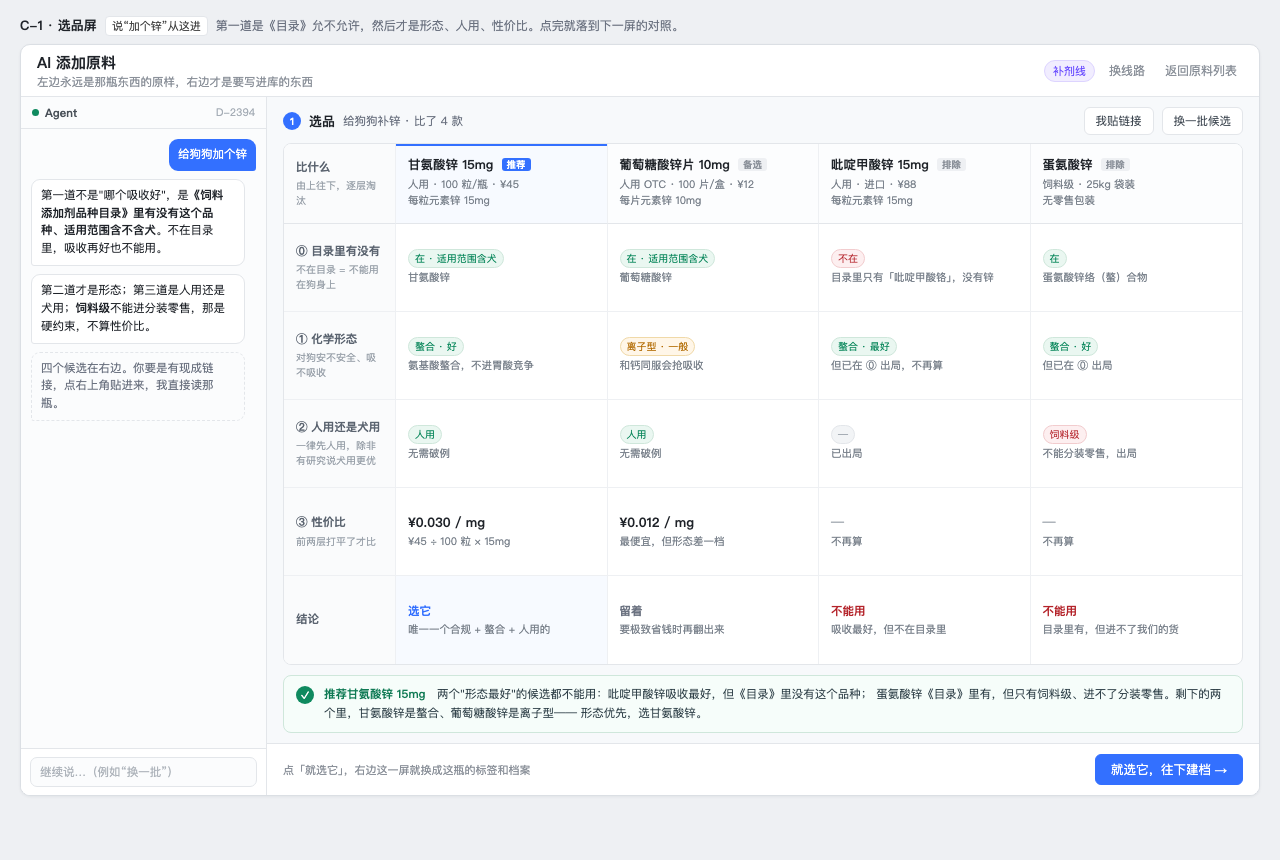
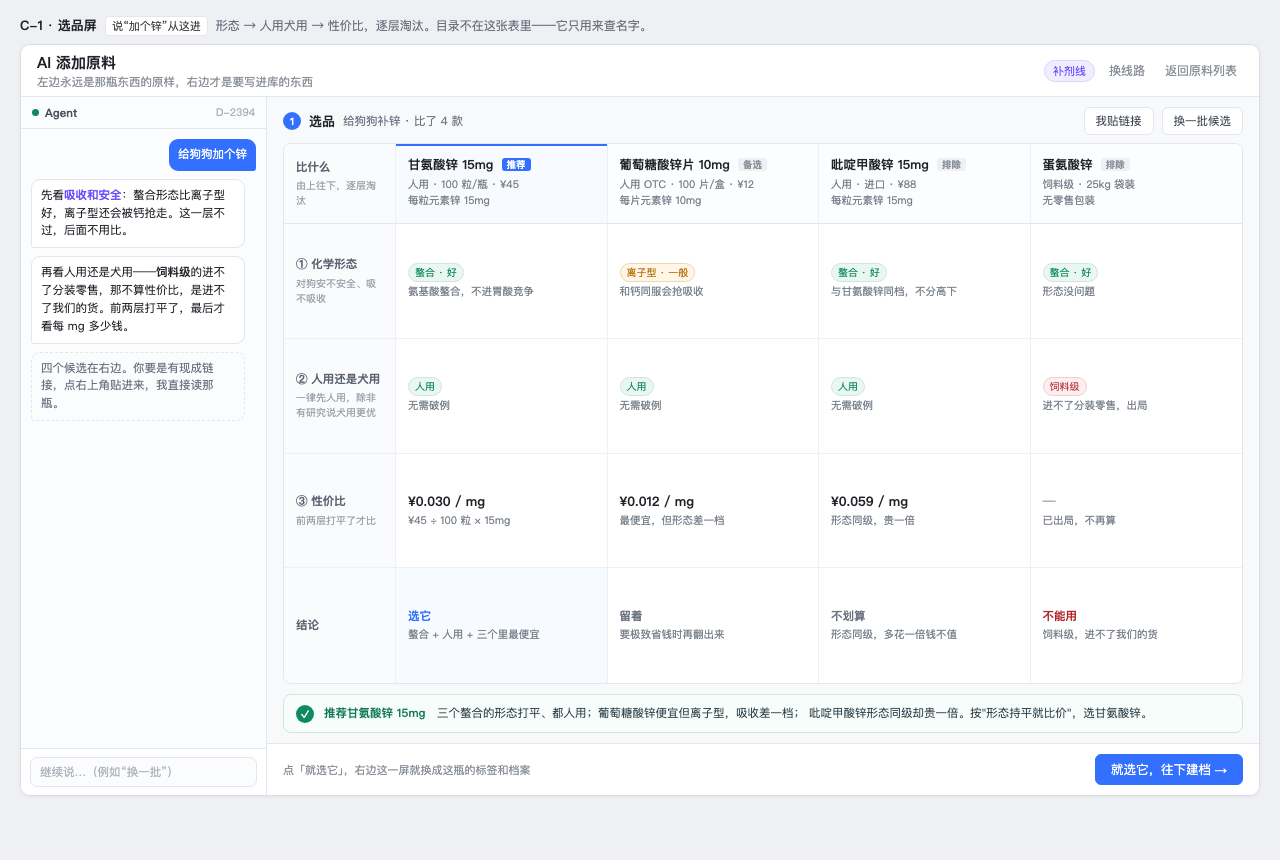
docs(ingredient): 目录改为命名依据，选品恢复健康优先顺序

diff --git a/docs/design/supplement-ingredient-ai/01-select-screen.html b/docs/design/supplement-ingredient-ai/01-select-screen.html
@@ -48,7 +48,7 @@ header .sub{font-size:11.5px;color:var(--muted);margin-top:1px}
 .btn2{font-size:11.5px;padding:5px 11px;border-radius:6px;border:1px solid var(--line);background:#fff;color:#3d4650}
 
 .cmpwrap{flex:1;padding:0 16px;overflow:hidden;display:flex;min-height:0}
-.cmp{display:grid;grid-template-columns:112px repeat(4,1fr);grid-template-rows:80px repeat(5,minmax(0,1fr));gap:0;border:1px solid var(--line);border-radius:8px;overflow:hidden;background:#fff;flex:1}
+.cmp{display:grid;grid-template-columns:112px repeat(4,1fr);grid-template-rows:80px repeat(4,minmax(0,1fr));gap:0;border:1px solid var(--line);border-radius:8px;overflow:hidden;background:#fff;flex:1}
 .cmp .c{padding:10px 12px;border-bottom:1px solid var(--line2);border-right:1px solid var(--line2);font-size:11.5px;line-height:1.5;display:flex;flex-direction:column;justify-content:center;align-items:flex-start}
 .cmp .c:nth-child(5n){border-right:none}
 .cmp .c.last{border-bottom:none}
@@ -81,7 +81,7 @@ header .sub{font-size:11.5px;color:var(--muted);margin-top:1px}
 </head>
 <body>
 
-<div class="cap"><b>C-1 · 选品屏</b><span class="k">说“加个锌”从这进</span><span>第一道是《目录》允不允许，然后才是形态、人用、性价比。点完就落到下一屏的对照。</span></div>
+<div class="cap"><b>C-1 · 选品屏</b><span class="k">说“加个锌”从这进</span><span>形态 → 人用犬用 → 性价比，逐层淘汰。目录不在这张表里——它只用来查名字。</span></div>
 
 <div class="app">
   <header>
@@ -101,8 +101,8 @@ header .sub{font-size:11.5px;color:var(--muted);margin-top:1px}
       <div class="chat-hd"><span class="dot"></span><b>Agent</b><span style="margin-left:auto;font-size:10.5px;color:#a5adb6">D-2394</span></div>
       <div class="chat-bd">
         <div class="msg me">给狗狗加个锌</div>
-        <div class="msg ai">第一道不是"哪个吸收好"，是<b>《饲料添加剂品种目录》里有没有这个品种、适用范围含不含犬</b>。不在目录里，吸收再好也不能用。</div>
-        <div class="msg ai">第二道才是形态；第三道是人用还是犬用；<b>饲料级</b>不能进分装零售，那是硬约束，不算性价比。</div>
+        <div class="msg ai">先看<span class="em">吸收和安全</span>：螯合形态比离子型好，离子型还会被钙抢走。这一层不过，后面不用比。</div>
+        <div class="msg ai">再看人用还是犬用——<b>饲料级</b>的进不了分装零售，那不算性价比，是进不了我们的货。前两层打平了，最后才看每 mg 多少钱。</div>
         <div class="msg ai" style="border-style:dashed;background:#fbfcfd;color:#6b7280">四个候选在右边。你要是有现成链接，点右上角贴进来，我直接读那瓶。</div>
       </div>
       <div class="chat-ft"><div class="inp">继续说…（例如“换一批”）</div></div>
@@ -136,49 +136,41 @@ header .sub{font-size:11.5px;color:var(--muted);margin-top:1px}
             <div class="m">饲料级 · 25kg 袋装<br>无零售包装</div>
           </div>
 
-          <!-- layer 0 -->
-          <div class="c rowlab">⓪ 目录里有没有<div class="t">不在目录 = 不能用在狗身上</div></div>
-          <div class="c"><span class="chip ok">在 · 适用范围含犬</span><div class="sm">甘氨酸锌</div></div>
-          <div class="c"><span class="chip ok">在 · 适用范围含犬</span><div class="sm">葡萄糖酸锌</div></div>
-          <div class="c"><span class="chip b">不在</span><div class="sm">目录里只有「吡啶甲酸铬」，没有锌</div></div>
-          <div class="c"><span class="chip ok">在</span><div class="sm">蛋氨酸锌络（螯）合物</div></div>
-
           <!-- layer 1 -->
           <div class="c rowlab">① 化学形态<div class="t">对狗安不安全、吸不吸收</div></div>
           <div class="c"><span class="chip ok">螯合 · 好</span><div class="sm">氨基酸螯合，不进胃酸竞争</div></div>
           <div class="c"><span class="chip w">离子型 · 一般</span><div class="sm">和钙同服会抢吸收</div></div>
-          <div class="c"><span class="chip ok">螯合 · 最好</span><div class="sm">但已在 ⓪ 出局，不再算</div></div>
-          <div class="c"><span class="chip ok">螯合 · 好</span><div class="sm">但已在 ⓪ 出局</div></div>
+          <div class="c"><span class="chip ok">螯合 · 好</span><div class="sm">与甘氨酸锌同档，不分高下</div></div>
+          <div class="c"><span class="chip ok">螯合 · 好</span><div class="sm">形态没问题</div></div>
 
           <!-- layer 2 -->
           <div class="c rowlab">② 人用还是犬用<div class="t">一律先人用，除非有研究说犬用更优</div></div>
           <div class="c"><span class="chip ok">人用</span><div class="sm">无需破例</div></div>
           <div class="c"><span class="chip ok">人用</span><div class="sm">无需破例</div></div>
-          <div class="c"><span class="chip" style="background:#f2f4f6;color:#9aa2ab;border:1px solid #e3e6ea">—</span><div class="sm">已出局</div></div>
-          <div class="c"><span class="chip b">饲料级</span><div class="sm">不能分装零售，出局</div></div>
+          <div class="c"><span class="chip ok">人用</span><div class="sm">无需破例</div></div>
+          <div class="c"><span class="chip b">饲料级</span><div class="sm">进不了分装零售，出局</div></div>
 
           <!-- layer 3 -->
           <div class="c rowlab">③ 性价比<div class="t">前两层打平了才比</div></div>
           <div class="c"><div class="big">¥0.030 / mg</div><div class="sm">¥45 ÷ 100 粒 × 15mg</div></div>
           <div class="c"><div class="big">¥0.012 / mg</div><div class="sm">最便宜，但形态差一档</div></div>
-          <div class="c"><div class="big" style="color:#aeb4bb">—</div><div class="sm">不再算</div></div>
-          <div class="c"><div class="big" style="color:#aeb4bb">—</div><div class="sm">不再算</div></div>
+          <div class="c"><div class="big">¥0.059 / mg</div><div class="sm">形态同级，贵一倍</div></div>
+          <div class="c"><div class="big" style="color:#aeb4bb">—</div><div class="sm">已出局，不再算</div></div>
 
           <!-- verdict row -->
           <div class="c rowlab last" style="background:#fafbfc">结论</div>
-          <div class="c last" style="background:#f7faff"><b style="color:#3370ff">选它</b><div class="sm">唯一一个合规 + 螯合 + 人用的</div></div>
+          <div class="c last" style="background:#f7faff"><b style="color:#3370ff">选它</b><div class="sm">螯合 + 人用 + 三个里最便宜</div></div>
           <div class="c last"><b style="color:#6b7280">留着</b><div class="sm">要极致省钱时再翻出来</div></div>
-          <div class="c last"><b style="color:#b4232a">不能用</b><div class="sm">吸收最好，但不在目录里</div></div>
-          <div class="c last"><b style="color:#b4232a">不能用</b><div class="sm">目录里有，但进不了我们的货</div></div>
+          <div class="c last"><b style="color:#6b7280">不划算</b><div class="sm">形态同级，多花一倍钱不值</div></div>
+          <div class="c last"><b style="color:#b4232a">不能用</b><div class="sm">饲料级，进不了我们的货</div></div>
         </div>
       </div>
 
       <div class="verdict">
         <div class="ic">✓</div>
         <div class="tx">
-          <b>推荐甘氨酸锌 15mg</b>　两个"形态最好"的候选都不能用：吡啶甲酸锌吸收最好，但《目录》里没有这个品种；
-          蛋氨酸锌《目录》里有，但只有饲料级、进不了分装零售。剩下的两个里，甘氨酸锌是螯合、葡萄糖酸锌是离子型——
-          形态优先，选甘氨酸锌。
+          <b>推荐甘氨酸锌 15mg</b>　三个螯合的形态打平、都人用；葡萄糖酸锌便宜但离子型，吸收差一档；
+          吡啶甲酸锌形态同级却贵一倍。按"形态持平就比价"，选甘氨酸锌。
         </div>
       </div>
 

diff --git a/docs/superpowers/specs/2026-11-07-supplement-ingredient-ai-flow-design.md b/docs/superpowers/specs/2026-11-07-supplement-ingredient-ai-flow-design.md
@@ -32,7 +32,7 @@
 
 1. **单层产品模型**：品牌、规格、渠道、采购价、剂型都挂在同一条标准原料上，没有"原料 / 商品 / SKU"三层。
 2. **计量口径是粒**：标签按"每份 N 粒"给数，档案要按"每粒"记，中间必须折一次，且折法要留在明面上。
-3. **合规目录是先决条件**：一个品种能不能用在犬身上，由《饲料添加剂品种目录》决定，不由吸收率决定。见 §1.3。
+3. **合规命名靠目录**：标签上印的名字必须取自《饲料原料目录》/《饲料添加剂品种目录》，且不带剂型。目录是**命名依据**，不是选品门禁。见 §1.3。
 4. **选品本身是判断**：同一营养素有好几种化学形态，选哪瓶需要专业判断，不是查表。
 5. **标签要能翻旧账**：商品可能下架、改规格、换包装，当时那瓶的标签必须留得下来。
 
@@ -62,7 +62,9 @@
 - 例：`矿物元素及其络（螯）合物` 下确有 **甘氨酸锌**（适用范围：猪、犬、猫）、**蛋氨酸锌络（螯）合物**、**葡萄糖酸锌**（表四，适用范围：犬、猫）。
 - 反例：**吡啶甲酸锌在全文出现 0 次**——目录里只有"吡啶甲酸铬"，没有"锌"。
 
-这条反例直接改变了选品的第一层：**"吸收最好"的形态，可能根本不允许用在犬身上**。所以判断顺序必须是「目录允许 → 形态 → 人用/犬用 → 性价比」，而不是「形态 → 人用/犬用 → 性价比」。
+**目录不参与选品排序。** 选品从狗的健康出发：先看吸收和安全，再看人用还是犬用，最后比性价比。目录是**查名字**用的——选完之后，用它在档案上填「标签名称 / 名称依据 / 标签类型」。
+
+但这条反例要记住：**选中的形态如果在目录里查不到名字，标签名称就是空的**，只能人工填、并且要有人负责。界面表现是留空标红，不是退回去改选。
 
 > 注：《饲料原料目录》（2038 号及历次修订）尚未取全文；鱼油这类"原料"归它管，不归添加剂目录管。这一步留给实施前补。
 
@@ -103,20 +105,21 @@
 
 ## 4. 选品屏
 
-一张表：四列候选 × 六行判断。
+一张表：四列候选 × 五行判断。
 
 | 行 | 看什么 | 规则 |
 |---|---|---|
-| **⓪ 目录里有没有** | 这个品种在不在《饲料添加剂品种目录》/《饲料原料目录》里，适用范围含不含犬 | **不在目录 = 不能用**，不是"风险高"。目录里查得到、但适用范围不含犬的，同样出局 |
 | ① 化学形态 | 这个形态对狗安不安全、好不好吸收 | 螯合/氨基酸络合优先于离子型；按形态本身判，不看品牌 |
-| ② 人用还是犬用 | 一律先人用 | 除非**有明确研究**指出犬用更优（例如必须上缓释技术），否则不破例；破例要写明依据 |
-| ③ 性价比 | 每 1000mg 有效成分的单价 | 鱼油按 EPA+DHA 合计；矿物质按**元素量**，不按化合物总量 |
-| ④ 结论 | 选它 / 留着 / 不能用 | 被上面任一行淘汰的，后面不再算，显示"—" |
+| ② 人用还是犬用 | 一律先人用 | 除非**有明确研究**指出犬用更优（例如必须上缓释技术），否则不破例；破例要写明依据。饲料级/不可零售算这一层——它进不了我们的货 |
+| ③ 性价比 | 每 1000mg 有效成分的单价 | 鱼油按 EPA+DHA 合计；矿物质按**元素量**，不按化合物总量。前两层打平才比 |
+| ④ 结论 | 选它 / 留着 / 不划算 / 不能用 | 被上面任一行淘汰的，后面不再算，显示"—" |
+
+> 《饲料添加剂品种目录》**不出现在这张表里**。它只用于选定之后的命名步骤（§6）。
 
 ### 4.1 四条不能含糊的规则
 
-1. **目录是硬门，不是加分项。** 不在目录里、或适用范围不含犬 → 判"不能用"。这时**不再算性价比**，否则会让人以为多花点钱就能买。
-2. **硬约束也不进性价比。** 饲料级、不能分装零售、没有零售包装——这是"进不了我们的货"，同样判"不能用"，不能算成"贵"。
+1. **顺序不能倒。** 先形态、再人用犬用、最后比价。从狗的健康出发；"便宜"不能反过来影响前两层。
+2. **进不了货的不进性价比。** 饲料级、不能分装零售、没有零售包装——这是"进不了我们的货"，判"不能用"，不能算成"贵"。
 3. **逐层淘汰。** ⓪不过的不进①；①不过的不进③。表上要看得出来是被哪一层淘汰的。
 4. **口味/型号不做判断依据。** 只比这四层；其它差异放备注，不参与排序。
 
@@ -171,7 +174,7 @@
 | 物理形态 | AI | 剂型（粉 / 片 / 胶囊 / 液体） |
 | 生产损耗率 | AI 给默认 | 全局默认 1.05，人可改 |
 | 用于 DIY 推荐 / 采购生产 | AI 给默认 | 人可改 |
-| **标签名称** | **AI** | 查目录的规范名；查不到就留空标红，**不猜** |
+| **标签名称** | **AI** | 选定后才查目录取规范名；查不到就留空标红，**不猜** |
 | **标签类型**（饲料原料 / 饲料添加剂） | **AI** | 跟着"查的是哪本目录"走：添加剂目录命中 → 饲料添加剂；原料目录命中 → 饲料原料 |
 | 名称依据 | AI | 查到的目录 + 版本 |
 | **标签分类** | **人** | 原料身上挂的标签（多选，可快速新建）——**与"标签类型"不是一回事** |
@@ -266,7 +269,7 @@
 3. 标签写"每份 2 粒"的，营养档案里写入的是**每粒值**，界面上看得见 `÷ 2`。
 4. 三道门任一不过，**写不进去**；过了，写入后是"待验证"，要人点「确认可用」才进配方。
 5. 标签名称不带剂型；目录里查不到时是**空的**，不是猜的。
-6. 选品屏里，不在目录里的候选显示"不能用"，且**不显示价格对比**。
+6. 选品屏里**不出现目录这一行**；目录只在命名步骤用，查不到名字时留空标红，不退回改选。
 7. 写入后，能翻出当时那张标签原图、原文和每份粒数。
 
 ## 14. 仍需拍板
